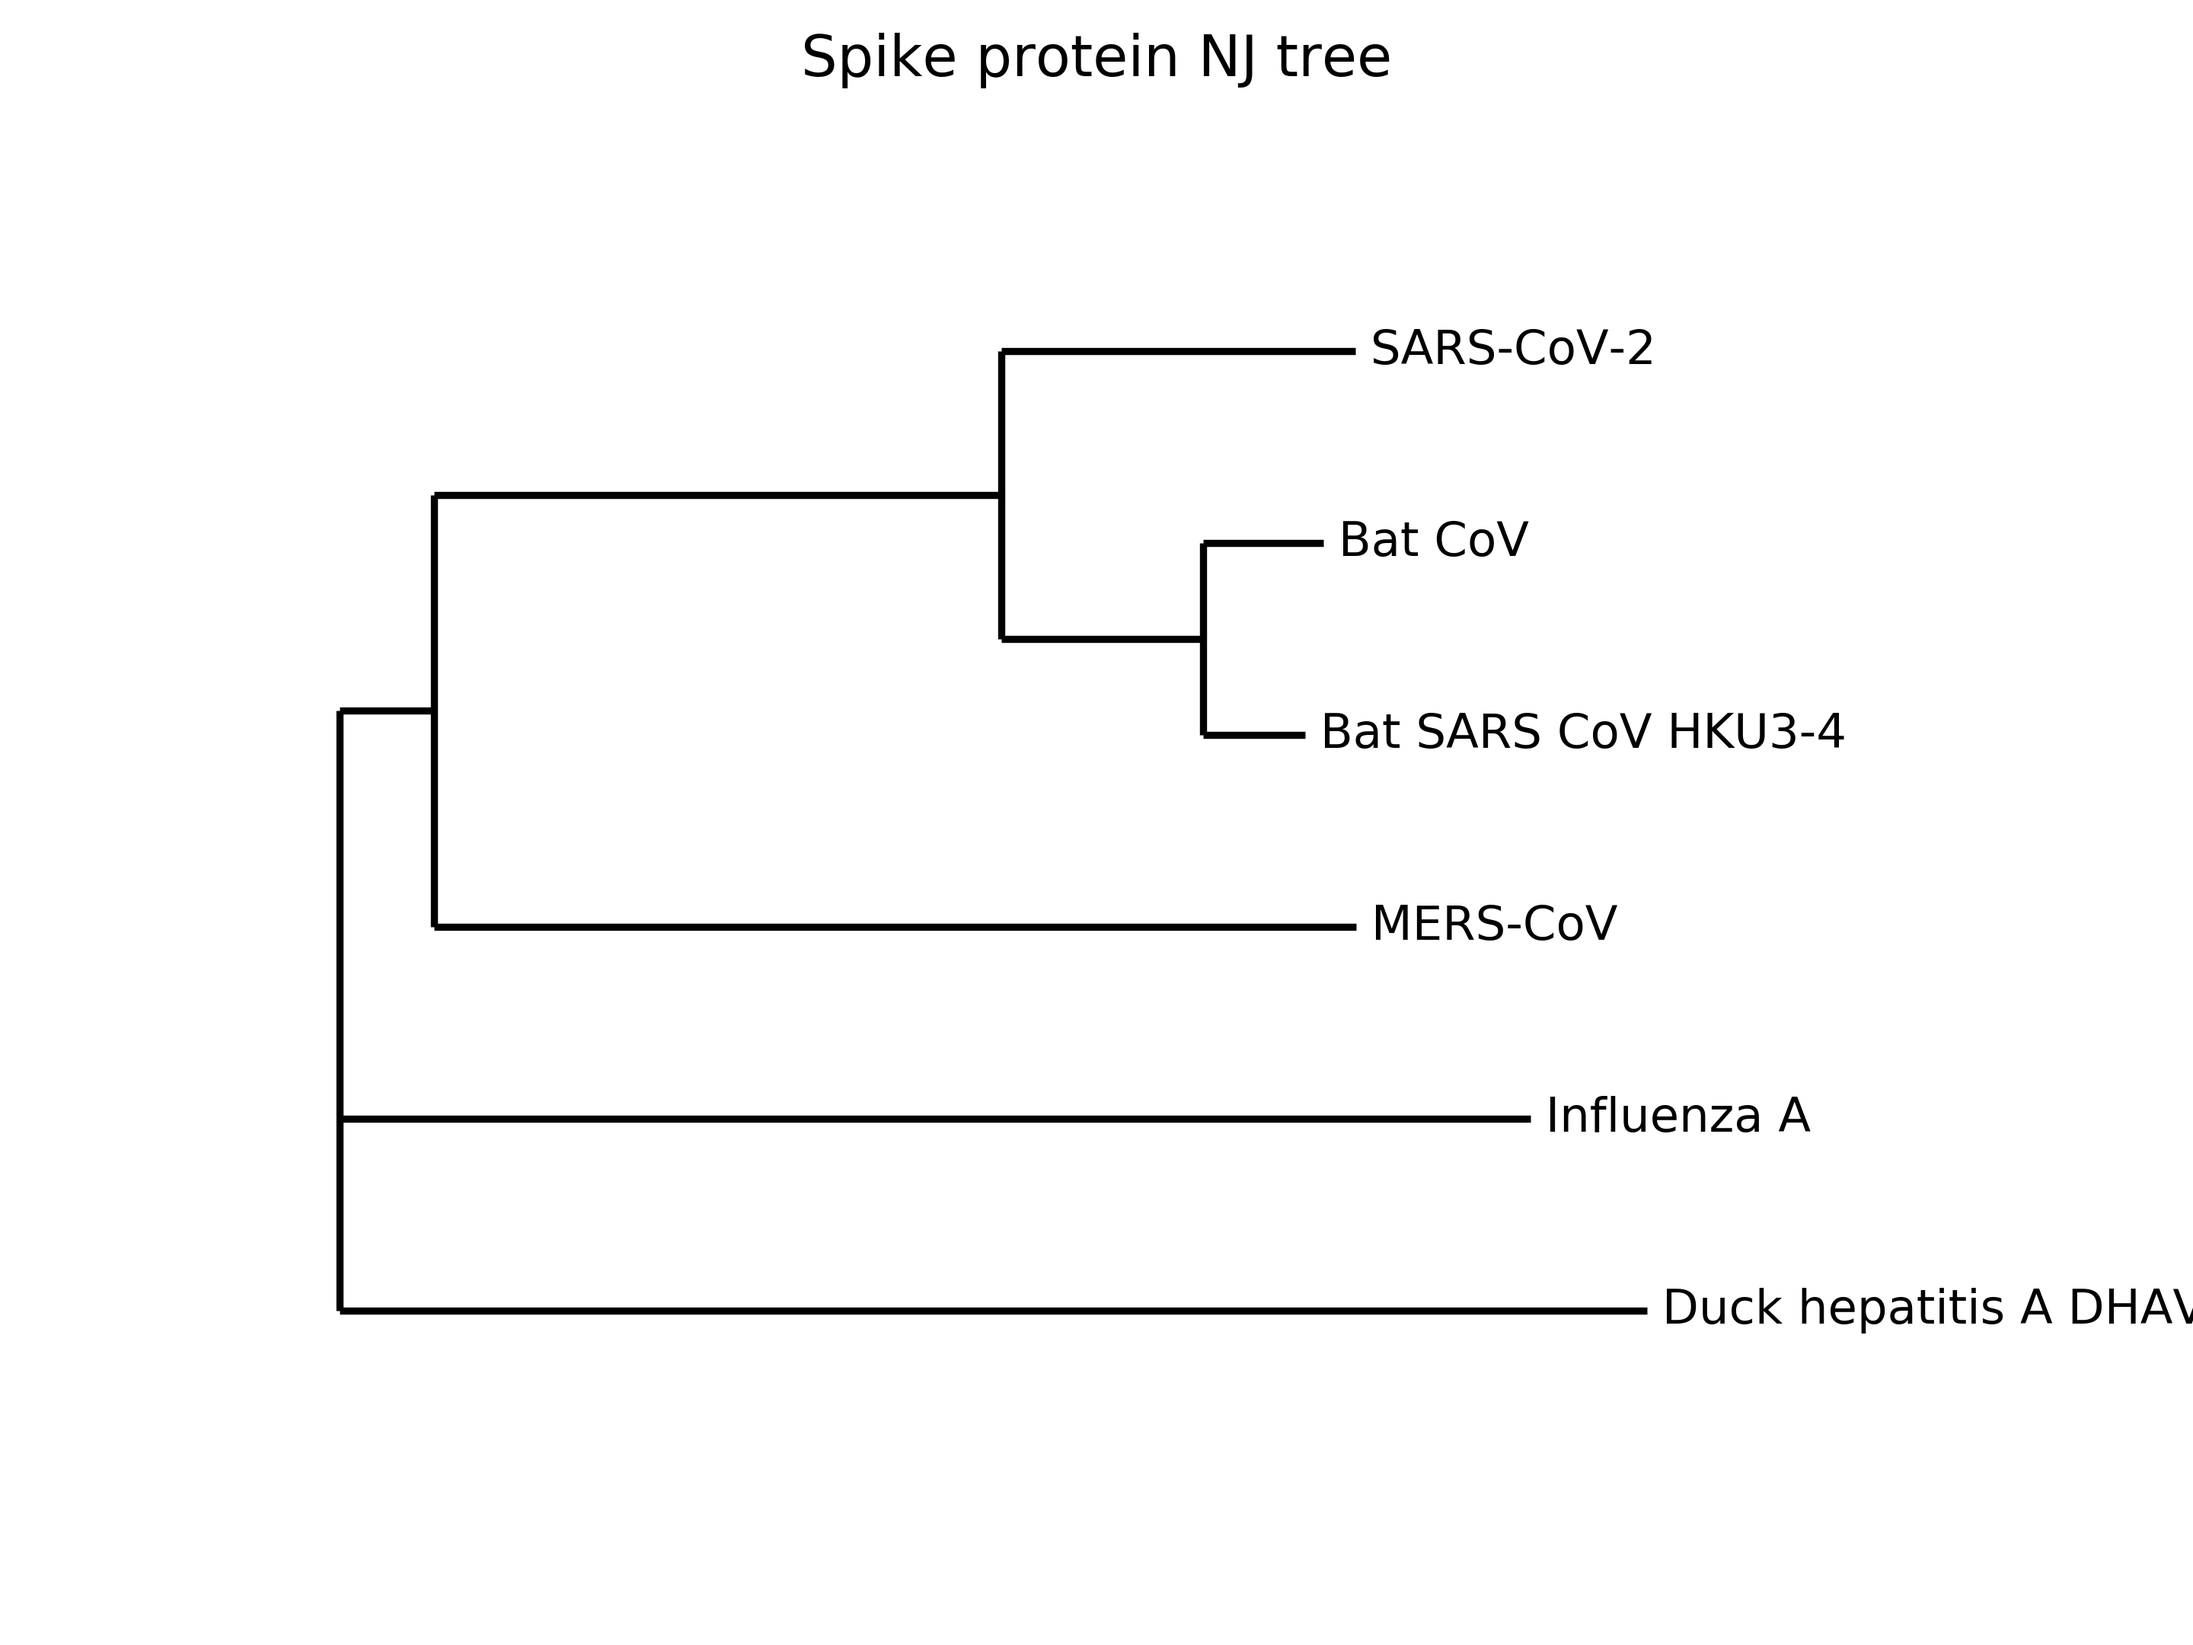
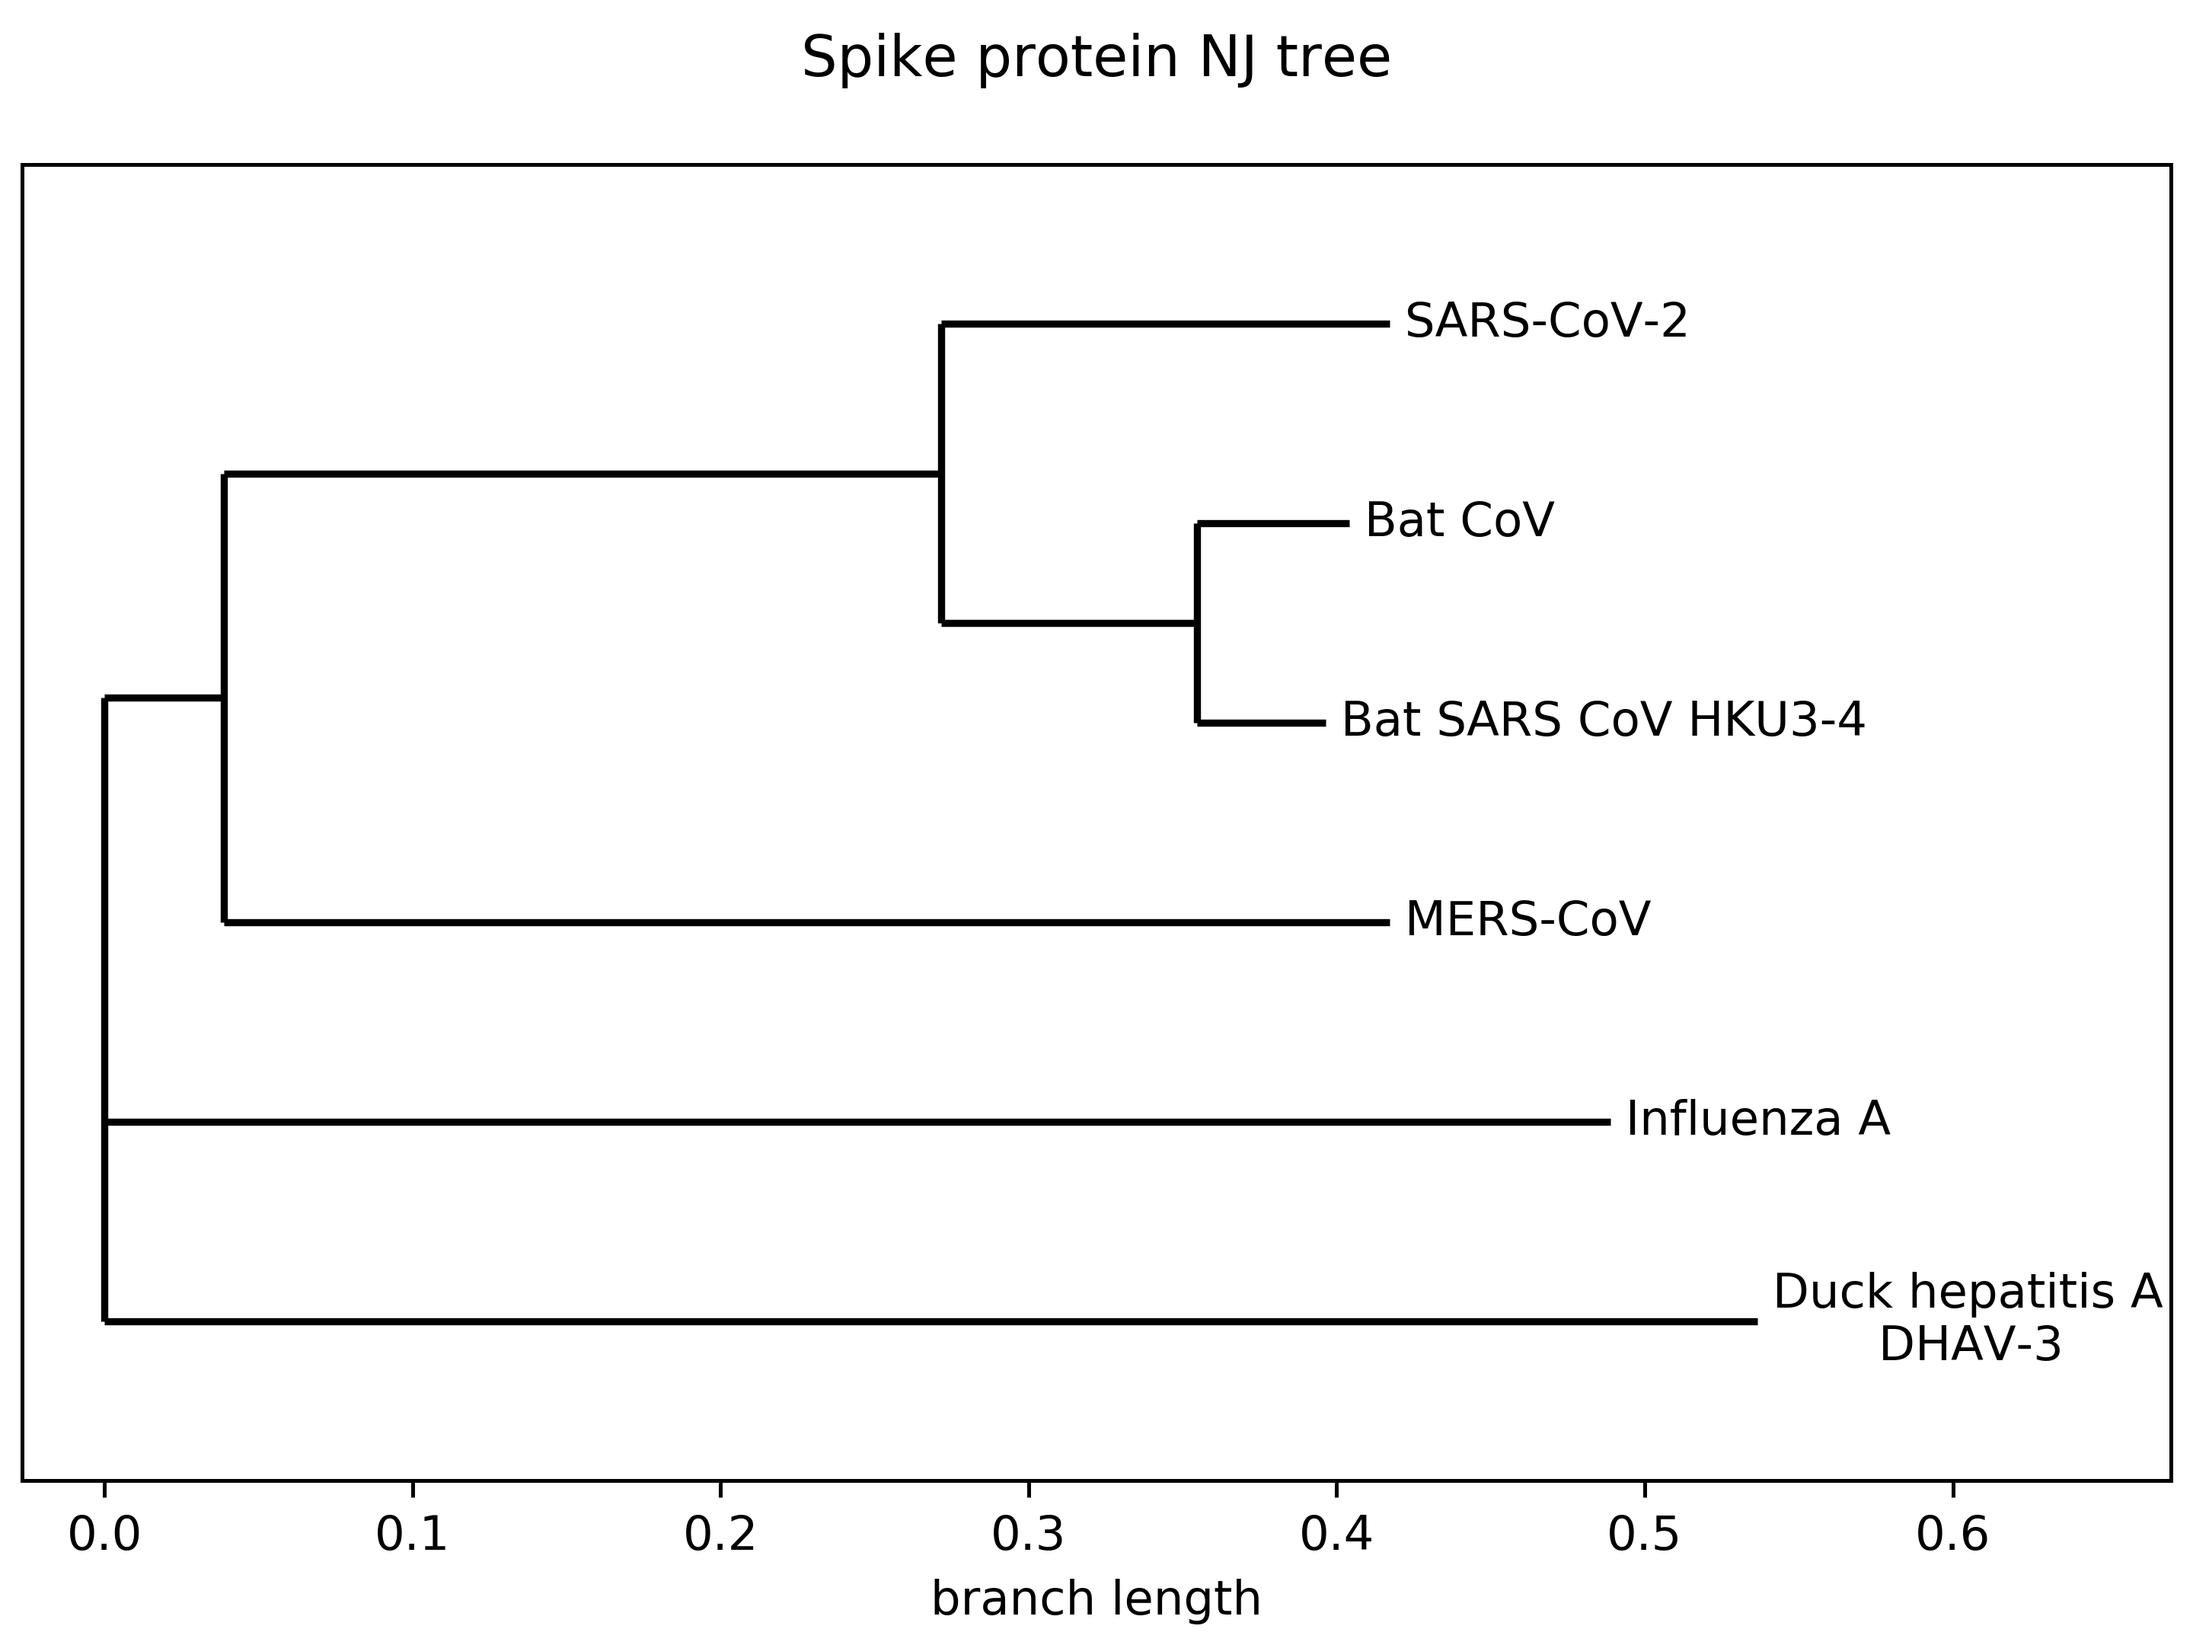
polishing

diff --git a/assignment.py b/assignment.py
@@ -1,79 +1,49 @@
-# identifying ourselves to the Entrez database
+import os
 from Bio import Entrez
 from Bio import SeqIO
-from Bio.Align.Applications import ClustalwCommandline
-import numpy as np
+
 Entrez.email = "piotrrutkowski97@gmail.com"
 
-def genome_sequence_import(query):
-    #searching for coronavirus sequence
-    handle=Entrez.esearch(db="nuccore",term=query)
-    rec=Entrez.read(handle)
-    # now we have the search results in a dictionary, we can take the list of sequence IDs
-    rec["IdList"]
-    #print(rec["IdList"])
-    print()
-    for i in range(len(rec["IdList"])):
-        #we can fetch the first one - the whole genome sequence
-        rec_handle=Entrez.efetch(db="nucleotide",id=rec["IdList"][i],rettype="fasta")
+def import_dna_from_db(genome_db_codes, spike_protein_db_codes):
 
-        # now we have the handle, we need to read the fasta file from it
+    genome_dna = []
+    for i in range(len(genome_db_codes)):
+        genome_handle = Entrez.efetch(db="nucleotide",id=genome_db_codes[i],rettype="fasta")
+        genome = SeqIO.read(genome_handle,"fasta")
+        genome_dna.append(genome)
 
-        ncov19=SeqIO.read(rec_handle,"fasta")
+        print(genome.description)
+        if i == len(genome_db_codes) - 1:
+            print()
 
-        print(ncov19.description, len(ncov19.seq), rec["IdList"][i])
-    #print(ncov19.seq)
+    spike_protein_dna = []
+    for i in range(len(spike_protein_db_codes)):
+        spike_protein_handle = Entrez.efetch(db="protein",id=spike_protein_db_codes[i],rettype="fasta")
+        spike_protein = SeqIO.read(spike_protein_handle,"fasta")
+        spike_protein_dna.append(spike_protein)
 
-    # now we will do the same for the spike protein
-    handle=Entrez.esearch(db="protein",term=query)
-    spike_rec=Entrez.read(handle)
-    print()
-    for i in range(len(spike_rec["IdList"])):
-        spike_handle=Entrez.efetch(db="protein",id=spike_rec["IdList"][i],rettype="fasta")
-        spike_ncov19=SeqIO.read(spike_handle,"fasta")
+        print(spike_protein.description)
+        if i == len(spike_protein_db_codes) - 1:
+            print()
 
-        print(spike_ncov19.description, len(spike_ncov19.seq), spike_rec["IdList"][i])
-    #print(spike_ncov19.seq)
-    print()
-    return [ncov19.seq, spike_ncov19.seq]
+    # save dna codes imported from database
+    SeqIO.write(genome_dna, 'genome_dna.fasta', 'fasta')
+    SeqIO.write(spike_protein_dna, 'spike_protein_dna.fasta', 'fasta')
 
-def genome_sequence_import2(genomes, spikes):
-    #searching for coronavirus sequence
-    print()
-    g = []
-    for i in range(len(genomes)):
-        handle=Entrez.efetch(db="nucleotide",id=genomes[i],rettype="fasta")
-        genome=SeqIO.read(handle,"fasta")
-        print(genome.description, len(genome.seq))
-        g.append(genome)
-        #print(genome.seq)
+# respective database codes for: SARS-CoV-2, Bat SARS CoV HKU3-4,
+# Bat CoV, MERS-CoV, Influenza A, Duck hepatitis A DHAV-3
+genome_db_codes = [1821109035, 292660135, 1180422623, 1386872249, 1820140354, 1812620187]
+spike_protein_db_codes = [1812779093, 292660137, 1179780473, 1386872252, 1820506005, 1812620188]
 
-    print()
-    s = []
-    for i in range(len(spikes)):
-        spike_handle=Entrez.efetch(db="protein",id=spikes[i],rettype="fasta")
-        spike=SeqIO.read(spike_handle,"fasta")
-        print(spike.description, len(spike.seq))
-        s.append(spike)
+import_dna_from_db(genome_db_codes, spike_protein_db_codes)
 
-    #print(spike_ncov19.seq)
-    print()
-    return g, s
 
-query_list = ['SARS-CoV-2','Bat SARS CoV HKU3-4', 'Bat CoV', 'MERS-CoV', 'Influenza A', 'Duck hepatitis A DHAV-3']
-genomes = [1821109035, 292660135, 1180422623, 1386872249, 1820140354, 1812620187]
-spikes = [1812779093, 292660137, 1179780473, 1386872252, 1820506005, 1812620188] # last two may be wrong
 
-genetic_codes = []
+# multiple sequence alignment using clustalo
+input_files = ['genome_dna.fasta', 'spike_protein_dna.fasta']
+output_files = ['genome_multiple_seq_alignment.fasta', 'spike_protein_multiple_seq_alignment.fasta']
 
-#genetic_codes.append(genome_sequence_import('hepatitis a'))
-
-g, s = genome_sequence_import2(genomes, spikes)
-
-#for query in query_list:
-#    genetic_codes.append(genome_sequence_import(query))
-
-SeqIO.write(g, 'g.fasta', 'fasta')
-SeqIO.write(s, 's.fasta', 'fasta')
+for i in range(len(input_files)):
+    os.system('clustalo -i ' + input_files[i] + ' -o ' + output_files[i] + ' --force')
 
 

diff --git a/phylo.py b/phylo.py
@@ -4,7 +4,8 @@ from Bio.Phylo.TreeConstruction import DistanceTreeConstructor
 from Bio.Phylo import draw_ascii, draw
 import matplotlib.pyplot as plt
 
-labels = ['SARS-CoV-2','Bat SARS CoV HKU3-4', 'Bat CoV', 'MERS-CoV', 'Influenza A', 'Duck hepatitis A DHAV-3']
+labels = ['SARS-CoV-2','Bat SARS CoV HKU3-4', 'Bat CoV', 'MERS-CoV',
+          'Influenza A', 'Duck hepatitis A\n        DHAV-3']
 
 spike_protein_dna = AlignIO.read("s_out.fasta", "fasta")
 genome_dna = AlignIO.read("g_out.fasta", "fasta")
@@ -41,9 +42,10 @@ def plot_tree(tree, title, output_file):
     ax.spines['right'].set_visible(False)
     ax.spines['bottom'].set_visible(False)
     ax.spines['left'].set_visible(False)
-
+    plt.gcf().subplots_adjust(right=0.99, left=0.01, top=0.9, bottom=0.1)
     plt.suptitle(title)
-    plt.axis('off')
+    plt.yticks([])
+    plt.ylabel('')
     plt.savefig(output_file, dpi=450)
 
     plt.close(fig)
